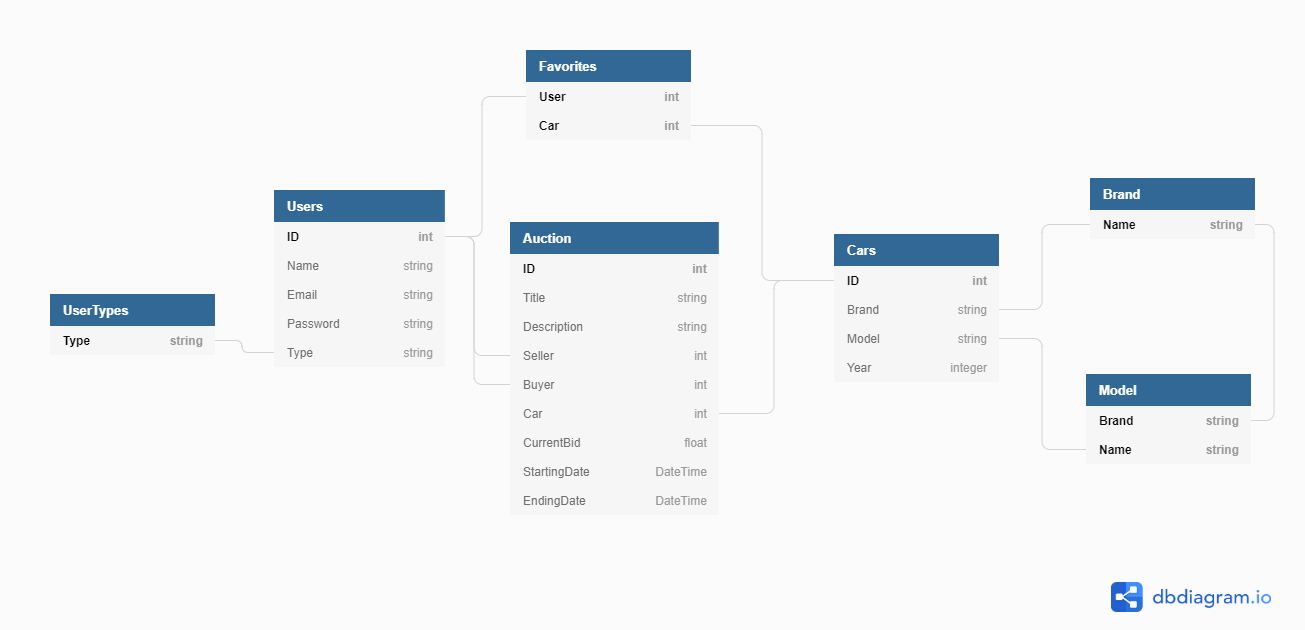
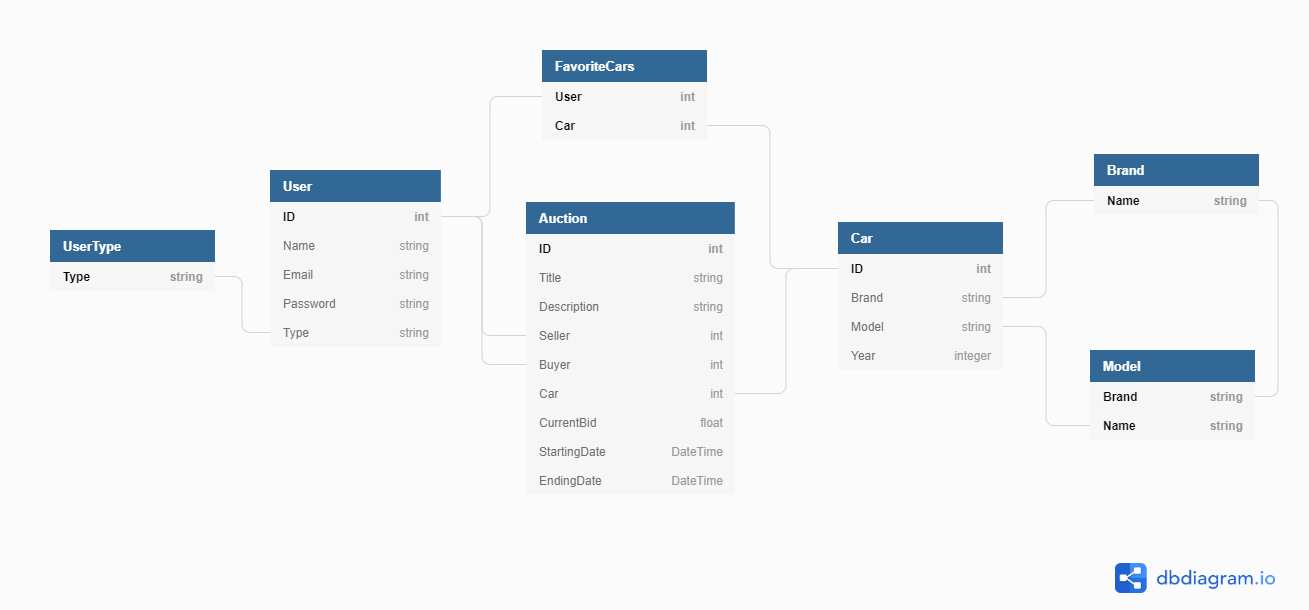
Added data models; refactor names

diff --git a/CarsAuction/CarsAuction/Models/User.cs b/CarsAuction/CarsAuction/Models/User.cs
@@ -1,0 +1,14 @@
+namespace CarsAuction.Models;
+
+public class User
+{
+    public int ID { get; set; }
+    public string Name { get; set; }
+    public string Email { get; set; }
+    public string Password { get; set; }
+    public UserType Type { get; set; }
+
+    // relation table FavoriteCars
+    public IEnumerable<Car> MyProperty { get; set; }
+}
+

diff --git a/CarsAuction/CarsAuction/Models/Car.cs b/CarsAuction/CarsAuction/Models/Car.cs
@@ -1,0 +1,9 @@
+namespace CarsAuction.Models;
+public class Car
+{
+    public int ID { get; set; }
+    public Brand Brand { get; set; }
+    public Model Model { get; set; }
+    public int Year { get; set; }
+
+}

diff --git a/CarsAuction/CarsAuction/Models/Model.cs b/CarsAuction/CarsAuction/Models/Model.cs
@@ -1,0 +1,7 @@
+namespace CarsAuction.Models;
+public class Model
+{
+    public Brand Brand { get; set; }
+    public string Name { get; set; }
+}
+

diff --git a/CarsAuction/CarsAuction/Models/UserType.cs b/CarsAuction/CarsAuction/Models/UserType.cs
@@ -1,0 +1,6 @@
+namespace CarsAuction.Models;
+
+public class UserType
+{
+    public string Type { get; set; }
+}

diff --git a/CarsAuction/CarsAuction/Models/Brand.cs b/CarsAuction/CarsAuction/Models/Brand.cs
@@ -1,0 +1,6 @@
+namespace CarsAuction.Models;
+public class Brand
+{
+    public string Name { get; set; }
+}
+

diff --git a/CarsAuction/CarsAuction/Models/Auction.cs b/CarsAuction/CarsAuction/Models/Auction.cs
@@ -1,0 +1,6 @@
+namespace CarsAuction.Models
+{
+    public class Auction
+    {
+    }
+}
